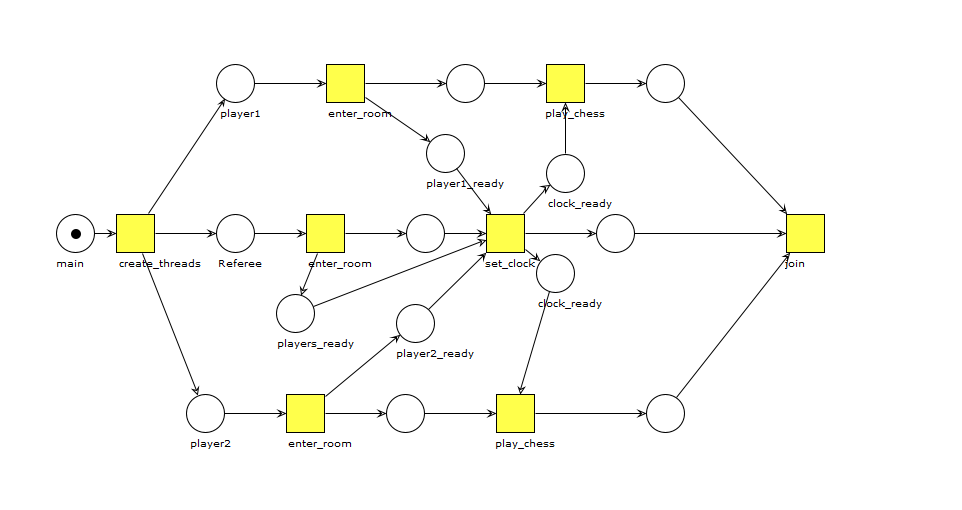
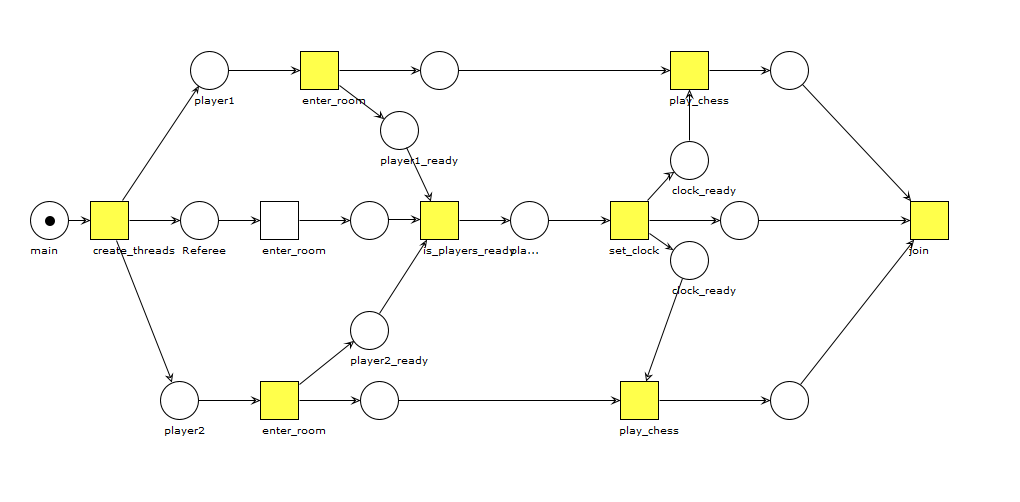
correción, pseudocódigo implementado y petri actualizado

diff --git a/exercises/pthreads/chess_vous/README.md b/exercises/pthreads/chess_vous/README.md
@@ -4,6 +4,31 @@ En un torneo de ajedrez los participantes efectúan el siguiente itinerario trad
 
 El problema se considera resuelto si el árbitro establece el reloj sólo hasta que los dos jugadores hayan ingresado al centro deportivo (enter_room) y los jugadores juegan (play_chess) hasta que el árbitro haya establecido el reloj (set_clock). Considere el siguiente código inicial que trata de representar el escenario descrito.
 
+procedure main()
+  shared player1_ready := semaphore(0)
+  shared player2_ready := semaphore(0)
+  shared players_ready := semaphore(0)
+  shared clock_ready := semaphore(0)
+
+  create_thread(player1)
+  create_thread(player2)
+  create_thread(referee)
+end procedure
+
+procedure player1()
+  enter_room()
+  play_chess()
+end procedure
+
+procedure player2()
+  enter_room()
+  play_chess()
+end procedure
+
+procedure referee()
+  enter_room()
+  set_clock()
+end procedure
 Agregue control de concurrencia al código inicial para considerando todas las posibles rutas de ejecución, el problema siempre esté resuelto.
 
 ## IMPORTANTE
